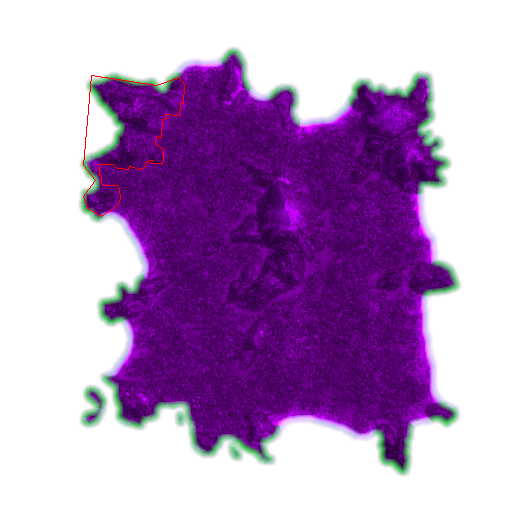
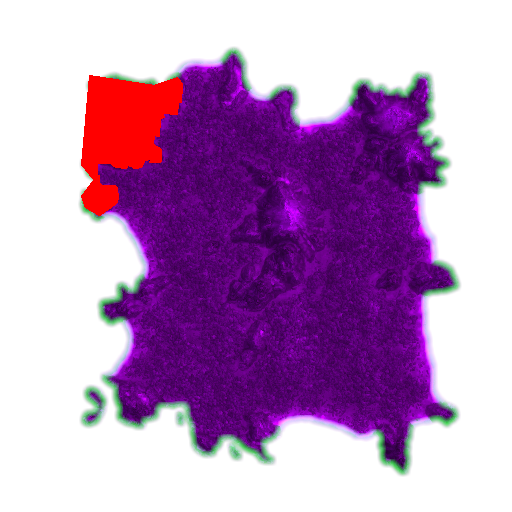
proposed algorithm for real use

Changed region(s): [[0.1562, 0.125, 0.375, 0.4375]]

diff --git a/src/python27/island_map_converter.py b/src/python27/island_map_converter.py
@@ -1,9 +1,13 @@
 '''
 Converts game data files for islands to custom data formats readable by building layout tools
-
+(v0.1 did not work, v0.2 is prove of concept only)
 
 Proposed algorithm:
- ?!?
+ 1. load data/levels/... scenario+campaign www files - ???
+ 2. for each www file load all islands
+ 3. for each island compute all builblocking polygons
+ 4. draw the polygons and save as png for debugging
+ 5. convert drawings to usable formats
  + one-time function to copy all related files do src/rda/...
 
  to do: look at import/export format for http://code.google.com/p/anno-designer/
@@ -33,7 +37,7 @@ except ImportError:
     print("To download PIL, see http://www.pythonware.com/products/pil/")
     raise
 
-__version__ = "0.1"
+__version__ = "0.2"
 
 def _transform(rgb):
     # to do: create a mapping from actual .png colors ;))
@@ -72,9 +76,9 @@ def test():
     #print(polygon)
     png = Image.open("test.png")
     size = png.size[1]
-    polygon = [(x+10, size-y-24) for x, y in polygon]
+    polygon = [(x+8, size-y-24) for x, y in polygon]
     draw = ImageDraw.Draw(png)
-    draw.polygon(polygon, outline=(255,0,0))
+    draw.polygon(polygon, fill=(255,0,0))
     del draw
     png.save("result.png")
 
